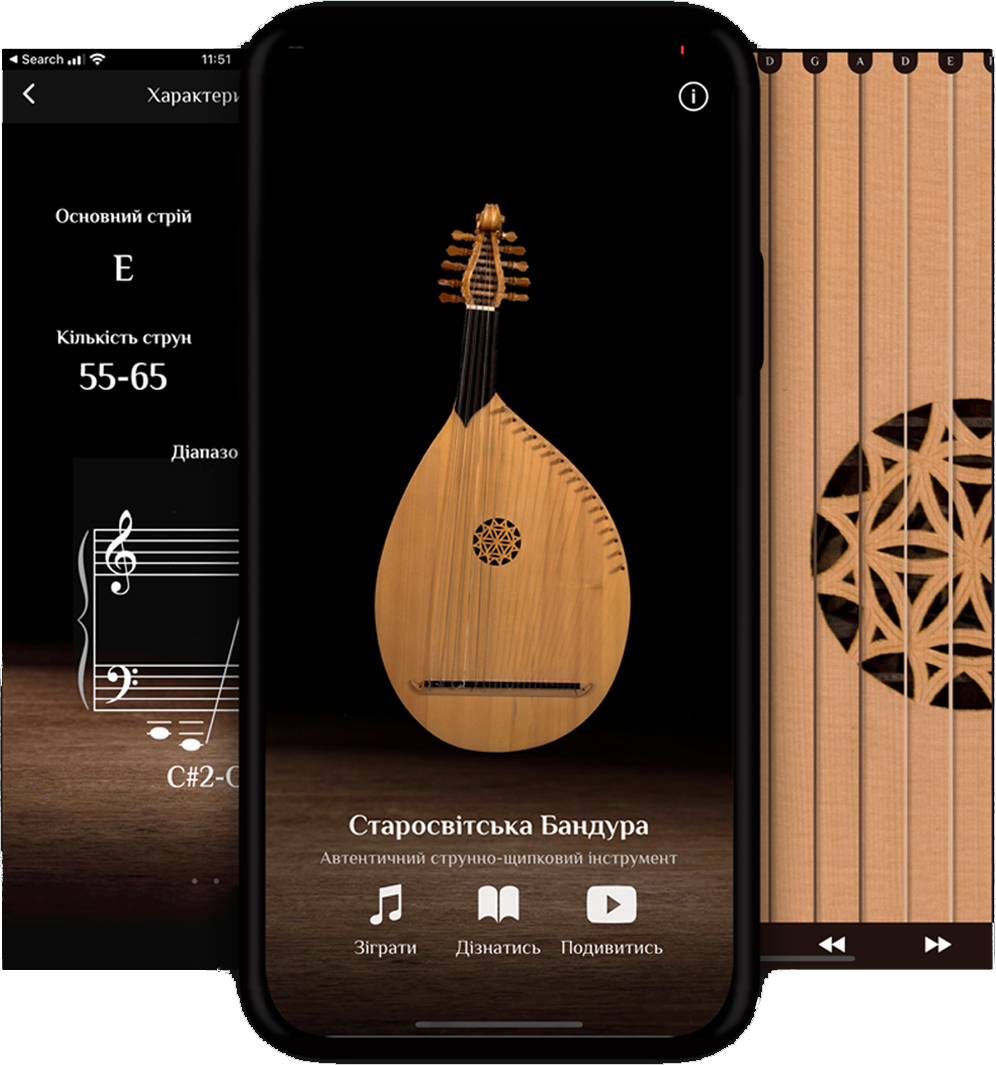
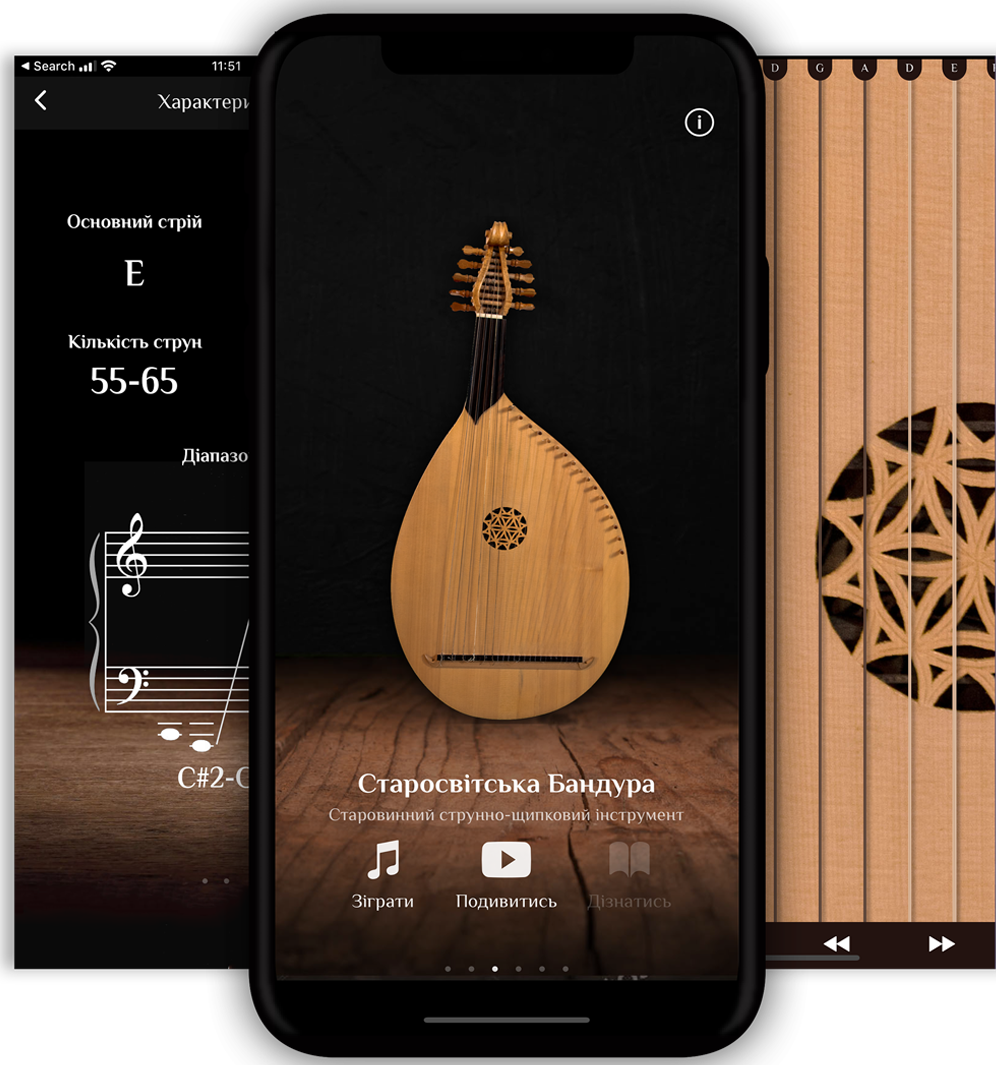
added localized mobile

diff --git a/es.html b/es.html
@@ -50,7 +50,7 @@
     <header>Bandura App</header>
     <h3>Una aplicación de móvil dedicada a los instrumentos musicales ucranianos.</h3>
 
-    <img src="./img/mobile.png" class="mobile">
+    <img src="./img/mobile_es.png" class="mobile">
 
 
 

diff --git a/pt.html b/pt.html
@@ -50,7 +50,7 @@
     <header>Bandura App</header>
     <h3>Um aplicativo móvel dedicado aos instrumentos musicais ucranianos.</h3>
 
-    <img src="./img/mobile.png" class="mobile">
+    <img src="./img/mobile_pt.png" class="mobile">
 
 
 
